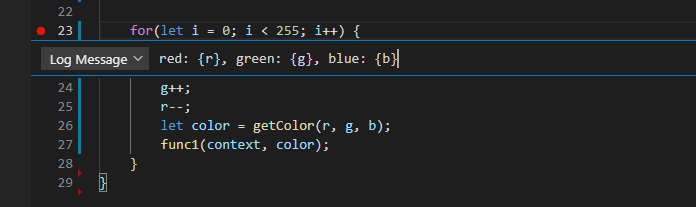
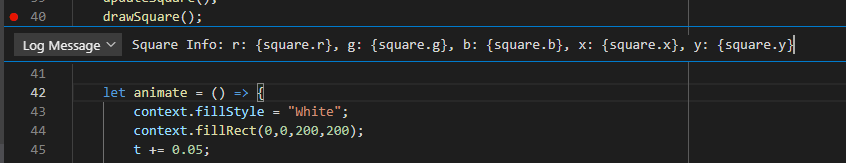
more specific instructions on setup and logpoints

Changed region(s): [[0.0, 0.0, 1.0, 1.0], [0.1509, 0.7669, 0.4224, 0.8589], [0.1207, 0.0, 0.2716, 0.0307]]

diff --git a/docs/1/index.html b/docs/1/index.html
@@ -19,6 +19,10 @@
     projects you may want to debug in the future.
 </p>
 
+<p>
+    I also recommend only having a single folder in your workspace being this one, this may make the process below easier.
+</p>
+
 <h3>Setting up</h3>
 
 <p>
@@ -38,14 +42,20 @@
 </p>
 
 <p>
+    Click on the run/debug tab.
+</p>
+
+<img src="../../images/run and debug tab.jpg" width="60">
+
+<p>
     The next step may look a little different depending on whether or not you already have
-    debug launch configs set up for debugging.
+    debug launch configs set up for debugging. 
 </p>
 
 <h3>If there are no launch configs</h3>
 
 <p>
-    Click on the run/debug tab to the left. Click on <b>Run and Debug</b>.
+    Your debug tab should look like the image below. Click on <b>Run and Debug</b>.
 </p>
 
 <img src="../../images/run and debug.PNG" width="300">
@@ -53,17 +63,22 @@
 <h3>If there are already launch configs</h3>
 
 <p> 
-    Click on the run/debug tab to the left. Go to the top and click the scrolldown.
-    Click on 'Add Config (<code>[Name of Workbook]</code>)'.
+    The debug tab will look like the image below, containing other launch options.
+    Go to the top and click the scrolldown.
+    Click on <b>Add Config ([Name of Workbook])</b>.
 </p>
 
-<img src="../../images/add config.png" width="300">
+<p>
+    For this workbook, you would click <b>Add Config (DebuggerTutorial21)</b>.
+</p>
+
+<img src="../../images/add config.png" width="400">
 
 <h3>The steps after should be the same</h3>
 
 <p>
     It will then ask you to select an environment, in which you will just select what 
-    browser you use to open your page, which for this example will be Chrome (It might be <code>Chrome (legacy)</code>). If you didn't install
+    browser you use to open your page, which for this example will be <b>Chrome</b> (It might be <b>Chrome (legacy)</b>). If you didn't install
     the Debugger for Chrome, Chrome will not show up as an option.
 </p>
 
@@ -72,7 +87,7 @@
 <p> 
     Now this <code>launch.json</code> file should open up and it can be found in the newly added <code>.vscode</code> folder
     of this workbook. We need to modify the url so that the port matches the one we are using
-    for the live server.
+    for the live server. You can also change the name of the config if you wish, but in this example, we will not do that.
 </p>
 
 <img src="../../images/change port.jpg" width="650">
@@ -82,15 +97,39 @@
 </p>
 
 <p>
-    <b>Note:</b> we only have to do this once per folder. If you open up a folder that you already set up the debugger for,
-    the launch settings will be saved in <code>launch.json</code> in the <code>.vscode</code> folder. This effects the entire folder, you don't
+    <b>If instead, it never asked you to select an environment</b> and took you straight to the <code>launch.json</code> asking you to select a config
+    like in the image below,
+</p>
+
+<img src="../../images/add additonal config.png" width="500">
+
+<p>
+    that means you already have a config for the folder and a <code>launch.json</code> file. You should delete the <code>launch.json</code> 
+    file the follow the steps above starting from after getting the Debugger for Chrome. There are other ways to handle this, but for
+    those who are new to this, this would be the simplest way to handle this.
+</p>
+
+<p>
+    <b>Note:</b> we only have to do this once per project folder. If you open up a project that you already set up the debugger for,
+    the launch settings will have been saved in <code>launch.json</code> in the <code>.vscode</code> folder in. This effects the entire folder, you don't
     have to worry about doing this for each individual file.
 </p>
 
 <h3>Running the debugger</h3>
 
 <p>
-    Now try running the debugger. It can only run when the live server is open.
+    The new launch config should now show up when you click the dropdown. It should show as:
+</p>
+
+<p>
+    <b>Launch Chrome against localhost (DebuggerTutorial21)</b>.
+</p>
+
+<img src="../../images/new config.png" width="400">
+
+<p>
+    Select this and try running the debugger. It can only run when the live server is open. 
+    Make sure you have the correct debugger config selected as shown before.
     You can run the debugger by clicking the arrow next to your launch tab.
 </p>
 
@@ -106,10 +145,15 @@
 <h2>Box (Exercise): First breakpoints</h2>
 
 <p>
+    First, we will need to go to this page in the debugger window.
+</p>
+
+<p>
     Now lets set some breakpoints. Below is a canvas with four squares. 
     The javascript for this can be found in <code>1-1.js</code>. You will see that there are
-    four functions and each gets called to draw a square. To the left of the line
-    number for any line, you can click to add a breakpoint, or click again to remove it.
+    four functions and each gets called to draw a square. When your mouse
+    hover overs the line numbers, a semi-transparent red circle will appear to the left. Clicking
+    on that circle sets/removes breakpoints.
 </p>
 
 <p>
@@ -119,8 +163,7 @@
 <img src="../../images/breakpoints.png" width="650">
 
 <p>
-    In the new debugger window, go to this page. It should be paused in the debugger bar in VS Code.
-    <b>If you were already on this page, refresh it so that the breakpoints activate.</b>
+    Refresh this page after you have added the breakpoints. If you weren't already on this page, go to it.
     If you set the breakpoints correctly, you will see that the canvas is empty. You can click on 'continue'
     in the debugger bar to go to the next breakpoint. You will notice
     that each square will appear as you continue as the code is paused at each breakpoint.
@@ -156,6 +199,25 @@
     occur in things like mouse events or animation loops where functions may get called again after time has passed, and if you
     placed a breakpoint in those repeated functions before it gets called, it will pause when it does. 
     We can see this later in section 4's exercise.
+</p>
+
+<h3>Why are my breakpoints greyed out?</h3>
+
+<p>
+    Below is an image of what breakpoints look like when they are greyed out.
+</p>
+
+<img src="../../images/grey breakpoints.PNG" width="650">
+
+<p>
+    This simply means that the code area is not being loaded, (I.E. the page containing the Code
+    is not the currently visited page). They will turn red when you go to the page containing the code with the breakpoints.
+</p>
+
+<p>
+    This could also mean you are debuggin in the wrong launch config or have some kind of issue with the config. 
+    If you are having issues with the config, the simplest thing to do would be to the delete 
+    the <code>.vscode</code> folder in your project and redo the steps above on this page to create the config.
 </p>
 
 <h3>Too many windows?</h3>

diff --git a/docs/4/index.html b/docs/4/index.html
@@ -17,10 +17,16 @@
 <p>
     The main use of console.log is to check on certain values or write messages that
     indicate if the code has gone through a certain point. We can do that much more easily
-    using the Log Message option when editing a breakpoint. This will create a logpoint.
+    using the Log Message option when editing a breakpoint to create a logpoint.
 </p>
 
-<img src="../../images/editB2.png" width="650">
+<p>
+    To create a logpoint, start by creating a breakpoint as you usually would. Then right click
+    the breakpoint and click 'Edit Breakpoint' just like how you did for creating Expressions. Now select
+    'Log Message' instead of 'Expression'.
+</p>
+
+<img src="../../images/select log message.png" width="650">
 
 <p>
     Using the logpoint, we can type in a message at any point in the code. <b>NOTE:</b> 
@@ -34,6 +40,14 @@
 </p>
 
 <img src="../../images/logpoint.PNG" width="650">
+
+<h3>Why use this?</h3>
+
+<p>
+    Logpoints are not lines of code added to your program. They simply log values on the side. The main benefit
+    is that they will not make a mess in your code unlike using <code>console.log()</code> all the time and can all
+    be removed easily in the <b>BREAKPOINTS</b> tab as mentioned before.
+</p>
 
 <h2>Box (Exercise): Logging</h2>
 

diff --git a/docs/3/index.html b/docs/3/index.html
@@ -26,7 +26,7 @@
 <img src="../../images/editB1.png" width="650">
 
 <p>
-    When you are editing a breakpoint, you can set it to Expression which will make the breakpoint
+    When you are editing a breakpoint, you can set it to 'Expression' which will make the breakpoint
     only stop the program if the condition you set is met at the breakpoint. Make sure you hit Enter
     after setting your expression to save the breakpoint conditional. You can also hit Esc to cancel.
 </p>
@@ -54,7 +54,7 @@
 </p>
 
 <p>
-    Now edit that breakpoint and go to Expression. Set it to <code>g == 100</code>.
+    Now edit that breakpoint and go to 'Expression'. Set it to <code>g == 100</code>.
     This will make it so that the breakpoint only stops the program when g == 100. Restart the page and you
     should see a brownish square when the debugger pauses then. If we continue, it should jump to
     the end and we'll get the green square again.
